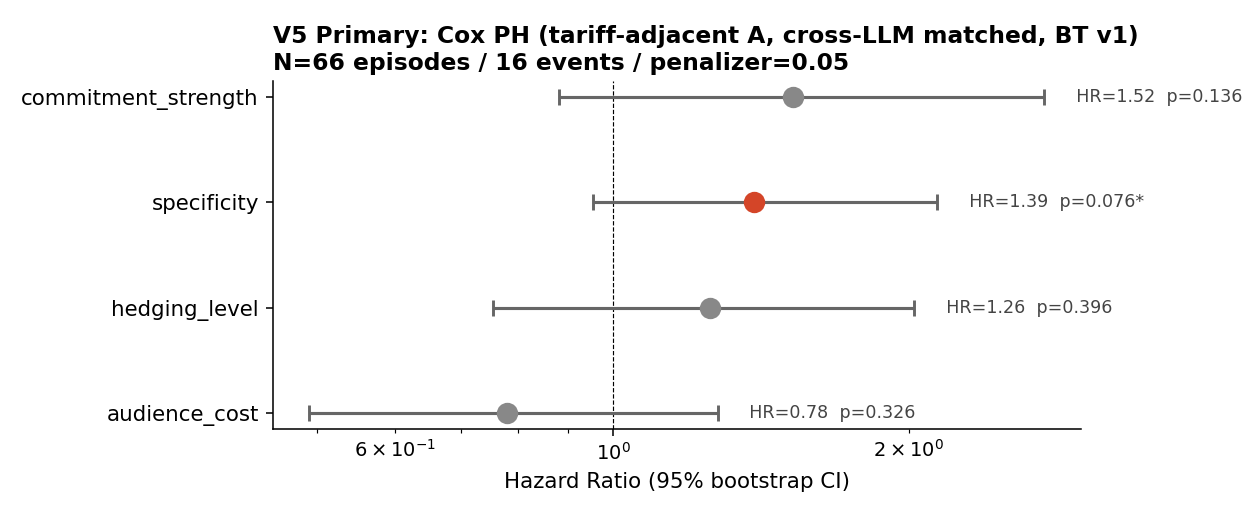
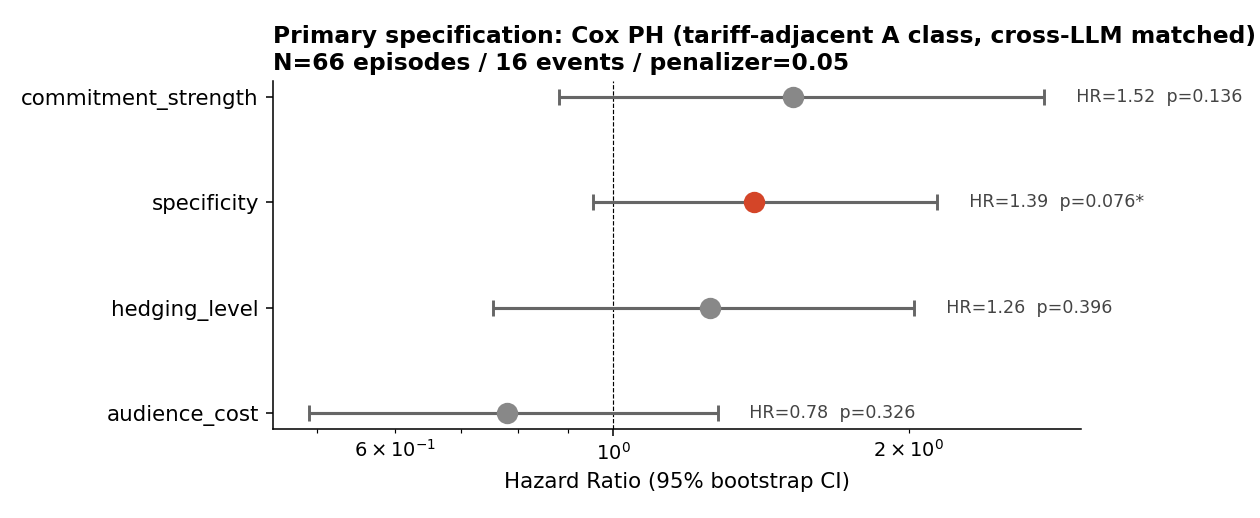
Remove V5 internal version name from figure title

Changed region(s): [[0.2167, 0.0309, 1.0, 0.0927]]

diff --git a/src/generate_paper_figures_v2.py b/src/generate_paper_figures_v2.py
@@ -114,7 +114,7 @@ def main():
     v6 = pd.read_parquet(COX_V6_FP).to_dict(orient="records")
 
     forest_plot(v5,
-                "V5 Primary: Cox PH (tariff-adjacent A, cross-LLM matched, BT v1)\nN=66 episodes / 16 events / penalizer=0.05",
+                "Primary specification: Cox PH (tariff-adjacent A class, cross-LLM matched)\nN=66 episodes / 16 events / penalizer=0.05",
                 FIG / "fig_v5_primary_forest.png")
 
     # V6 has three variants — make 3 separate plots
